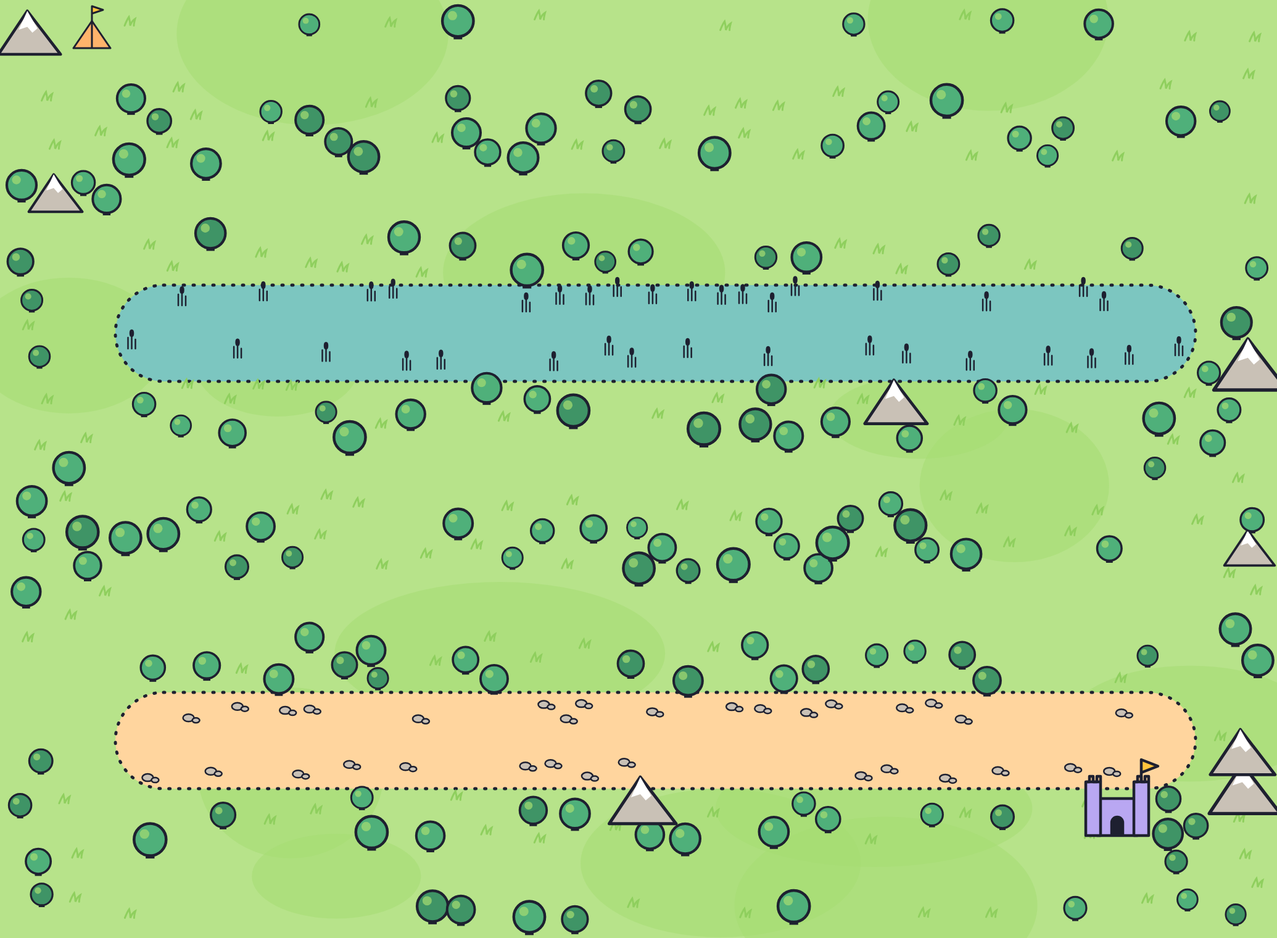
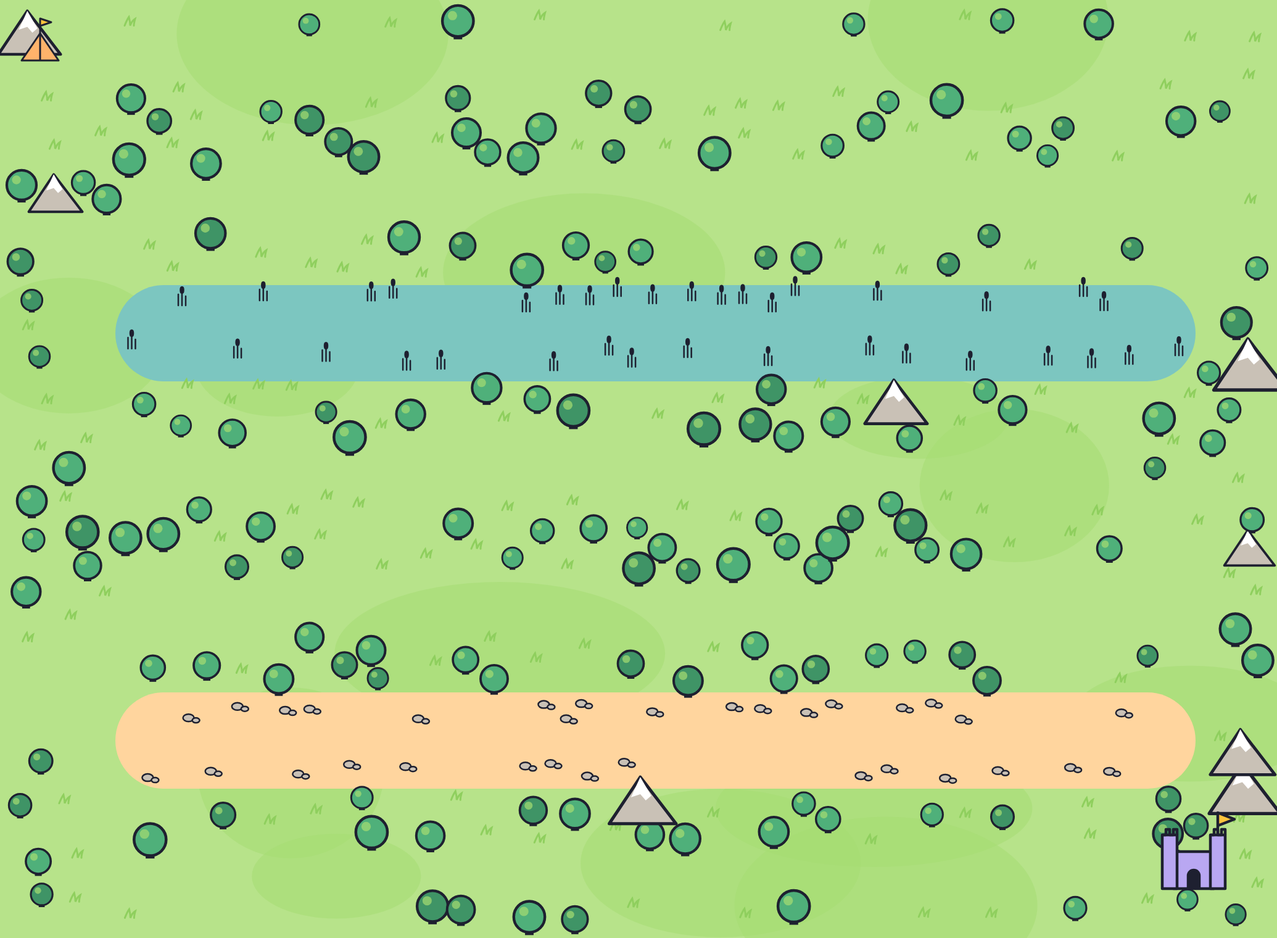
docs: map background decisions, test matrix, runbook and design review
D-276 decided (built before stage 2 closes), D-277..D-279; MP28 done,
MP30 the e2e; the canvas picture moved by half a card, the demo picture
without double outlines.

Changed region(s): [[0.8348, 0.8039, 0.9894, 0.9586], [0.0, 0.0, 0.0928, 0.0618]]

diff --git a/web/src/board/MapView.tsx b/web/src/board/MapView.tsx
@@ -122,7 +122,20 @@ function PropShape({ prop }: { prop: Prop }) {
  * fades in once the browser has it, so a slow phone network never waits for it.
  */
 function BackgroundPicture({ picture }: { picture: BoardBackground }) {
-  const [ready, setReady] = useState(false);
+  // Loaded aside, so a picture already in the cache still says it is there (an SVG image's own load event may come
+  // before the page listens to it)
+  const [ready, setReady] = useState<string | null>(null);
+  useEffect(() => {
+    let active = true;
+    const probe = new Image();
+    probe.onload = () => {
+      if (active) setReady(picture.url);
+    };
+    probe.src = picture.url;
+    return () => {
+      active = false;
+    };
+  }, [picture.url]);
   return (
     <image
       href={picture.url}
@@ -134,14 +147,8 @@ function BackgroundPicture({ picture }: { picture: BoardBackground }) {
       data-map-background=""
       className={cx(
         'transition-opacity duration-(--duration-slow) motion-reduce:transition-none',
-        ready ? 'opacity-100' : 'opacity-0',
+        ready === picture.url ? 'opacity-100' : 'opacity-0',
       )}
-      onLoad={() => {
-        setReady(true);
-      }}
-      onError={() => {
-        setReady(false);
-      }}
     />
   );
 }

diff --git a/web/src/admin/MapCanvas.tsx b/web/src/admin/MapCanvas.tsx
@@ -99,6 +99,9 @@ const nodeTypes = { cell: CellBox };
  */
 const spread = 1.4;
 
+/** About half of a cell's card on the canvas: from its corner (its place) to its number's centre */
+const cardHalf = { x: 26, y: 26 };
+
 /** The zoom buttons of the player's map, on the canvas */
 function CanvasTools() {
   const flow = useReactFlow();
@@ -269,6 +272,9 @@ export function MapCanvas({
               style={{
                 width: draft.background.width * spread,
                 height: draft.background.height * spread,
+                // A card stands with its corner on the place; the picture moves by about half a card so the place it
+                // marks falls under the card's number, as on the players' map
+                transform: `translate(${String(-cardHalf.x)}px, ${String(-cardHalf.y)}px)`,
               }}
             />
           </ViewportPortal>

diff --git a/e2e/visual/map.visual.spec.ts b/e2e/visual/map.visual.spec.ts
@@ -144,10 +144,16 @@ for (const section of [
   'admin',
   'graph',
   'editor',
+  'map-background',
   'whats-new',
 ]) {
   test(`the styleguide section «${section}» looks as approved`, async ({ page }) => {
     await openStyleguide(page, section);
+    // The map's picture fades in once it is loaded (D-277): the screenshot waits for it
+    if (section === 'map-background')
+      await expect(page.locator('#map-background image[data-map-background]')).toHaveClass(
+        /opacity-100/,
+      );
     await expect(page.locator(`#${section}`)).toHaveScreenshot(`${section}.png`);
   });
 }

diff --git a/docs/DECISIONS.md b/docs/DECISIONS.md
@@ -303,7 +303,7 @@
 - **D-311. Карта в представлении сезона.** `SeasonView` отдаёт карту, которая действует сейчас: последнее событие `map-published` из лога (по типу события, без разбора JSON в запросе), иначе карта создания сезона. Клетки (`CellView`) — с типом, параметрами типа, зоной и координатами редактора; добавлены `edges`, `zones` (`ZoneView`: фильтр ролла, модификатор кубов числом, множитель штрафа дропа, колода и цены — как в CONTENT.md) и `mapMode`. Лидерборд считает «клеток до финиша» по той же карте. Проекция БД не менялась, миграций нет: карта по-прежнему живёт в логе (D-300). Расширение только добавляет поля: клиенты этапа 1 их не читают.
 - **D-312. Последний ход — отрезками из лога.** `me.lastMove` — события `player-moved` последней команды, которая двигала мою фишку (среди 64 последних перемещений сезона; только в режиме `graph`), с причиной каждого отрезка и `sequence`. Экран ведёт фишку по настоящей ветке, а телепорт показывает перелётом (`TokenMove.jumps`), а не шагами по цепочке. Выбор ветки отдаёт оставшиеся шаги (`ChoiceView.steps`): кнопка ветки говорит, где фишка встанет («Встанешь на телепорт 6 и перенесёшься на клетку 5»), — это подсказка по той же логике, что `Movement.WalkOwn`, ходит всё равно сервер.
 - **D-313. Редактор карты — только на компьютере.** На телефоне раздел «Карта» админки показывает опубликованную карту с легендой и пометку, что рисовать можно на компьютере: перетаскивание клеток и стрелок требует мыши и места, а правка карты — редкое админское действие. Всё, что делается на холсте, дублируется панелями с клавиатуры (выбор клетки списком, тип, зона, куда ведёт телепорт, очки, выходы с веткой по умолчанию, входы с основным ребром, новая стрелка, удаление).
-- **D-314. Черновик карты — в браузере админа.** Движку черновик не нужен (D-300), а отдельное серверное хранилище черновиков — лишняя таблица без выигрыша для одного админа: черновик лежит в `localStorage` по сезону, пока он отличается от опубликованной карты, и сбрасывается кнопкой «Вернуть опубликованную» и публикацией. Потеря черновика (другой браузер, очистка) не трогает игру. Загрузка фоновой картинки (SPEC «Редактор») отложена: формат карты её не несёт (D-300), фон рисует доска из зон; добавится расширяющим полем карты, когда появится своя картинка сезона.
+- **D-314. Черновик карты — в браузере админа.** Движку черновик не нужен (D-300), а отдельное серверное хранилище черновиков — лишняя таблица без выигрыша для одного админа: черновик лежит в `localStorage` по сезону, пока он отличается от опубликованной карты, и сбрасывается кнопкой «Вернуть опубликованную» и публикацией. Потеря черновика (другой браузер, очистка) не трогает игру. Загрузка фоновой картинки (SPEC «Редактор») была отложена; сделана расширяющим полем карты — D-276…D-279.
 - **D-315. Проверка и публикация карты в API.** `GET /api/admin/seasons/{id}/map` — действующая карта, режим, статус и игроки на клетках (кто финишировал, кто выбирает ветку). `POST …/map/check` — все проблемы сразу: `MapValidator.Validate` плюс новые `MapPublicationChecks.For` (клетки под игроками удалены или стали/перестали быть финишем, кто-то выбирает ветку — то же, что проверяет `PublishMap`; сама команда теперь берёт их оттуда, поведение не менялось), предупреждения о зонах (`ZoneWarnings`) и `canPublish`; проверка читает свёртку лога и ничего не пишет. `POST …/map/publish` — команда `PublishMap` через очередь с комментарием для ленты. Только эти два запроса принимают тело до 1 МиБ (карта на сотни клеток с координатами), остальное API — по-прежнему 64 КиБ. Изменение движка — только добавление публичного помощника.
 - **D-316. Как рисуется граф.** Клетки нумеруются от старта обходом в ширину по стрелкам (сначала ветка по умолчанию, потом телепорты), так номер на карте, в списке для скринридера и в кнопках ветки один и тот же. Координаты берутся из редактора; карта без координат раскладывается столбцами по расстоянию от старта. Зона — выпуклая оболочка вокруг её клеток; вид зоны (лес, горы, болото, город, замок, поляна) — по порядку зоны в карте: в формате карты темы нет, это украшение. Телепорт — пунктирная дуга со стрелкой к клетке назначения.
 - **D-317. Момент выбора ветки.** Пока ждёт выбор ветки, кнопки ролла нет (сервер всё равно отказал бы); выбор показывается и после дедлайна (D-305). На десктопе выбор стоит полосой внизу рамки карты, камера показывает развилку над ней, а в карточке хода — «Ты на развилке: выбери ветку на карте»; на телефоне выбор — в карточке хода, карта ниже с кольцами веток. Ветки пронумерованы так же, как кольца на карте; каждая — кнопка, выбор работает с клавиатуры. Выбор, пришедший при открытой странице, берёт фокус (как результат колеса). После выбора фишка идёт по выбранной ветке (с перелётом телепорта), до конца хода кнопка ролла ждёт.
@@ -319,7 +319,10 @@
 - **D-271. Скорость главной на демо-сезоне с картой-графом.** Карта-граф увеличила ответ сезона и SVG; сценарий 13 на мобильном профиле — 2,2–2,4 с при бюджете 2,5 с (прогоны поодиночке; при запуске вместе с другими сценариями и проектами параллельно — до 2,9 с, это не условия сценария: `late` идут по одному проекту, D-232). Запас маленький: следующая тяжёлая часть главной должна идти отдельным запросом или после показа карты.
 - **D-272. E2E развилки и телепорта двумя браузерами** (`e2e/tests/map-live.spec.ts`). Свой сезон (D-318) на карте, где ветка не по умолчанию начинается тремя телепортами на дальнюю клетку: два кубика по 2 грани всегда проходят развилку и после выбора встают на телепорт, так что результат детерминирован без зерна. Игрок B держит страницу открытой (метка в `window` ловит перезагрузку) и видит фишку A на развилке, потом на клетке телепорта и строки ленты «выбирает ветку на развилке» и «Телепорт». На десктопе админ публикует карту посреди сезона: отказ, пока A выбирает ветку, отказ, когда черновик удаляет клетку A, и принятая публикация (чекпоинт), которую оба видят без перезагрузки и без сдвига фишек. На телефоне — только игроки (редактор только на компьютере, D-313).
 - **D-275. Зум и перетаскивание карты-графа на телефоне в E2E (MP29).** На телефоне граф показывается иначе, чем линейная карта: рамка обрезает его вокруг фишки по высоте (D-320 (9)), поэтому жесты проверяются и на нём, а не только сценарием 9 на линейном сезоне. `map-live.spec.ts` в проекте `phone`: на странице наблюдателя щипок двумя пальцами приближает граф (ширина `viewBox` меньше), перетаскивание одним пальцем по горизонтали и по вертикали сдвигает центр, страница не перезагружается. Касания идут через протокол DevTools (`Input.dispatchTouchEvent`), поэтому только в Chromium; помощники `e2e/support/touch.ts` общие со сценарием 9.
-- **D-276, нужно решение: загрузка фоновой картинки карты.** Вопрос: SPEC («Редактор», этап 2) включает загрузку фона, а карта описана как граф «поверх фоновой картинки»; D-314 отложил загрузку своим решением, без вопроса заказчику, и этап 2 закрывается без неё. Варианты: (а) перенести загрузку фона на более поздний этап через `/spec-update` — фон и дальше рисует доска из зон, формат карты не меняется; (б) сделать до закрытия 2.12: расширяющее поле картинки у карты сезона, загрузка файла админом (те же проверки, что у пруфов), картинка под клетками на карте игрока и в редакторе. Дефолт до ответа — (а) не делается, MP28 в матрице открыт как вопрос заказчику, а не как отложенная задача. Почему спрашиваю: расхождение кода со SPEC решает заказчик.
+- **D-276, решено: сделано до закрытия этапа 2** (2026-11-11, ветка `feat/map-background`). Вопрос был: SPEC («Редактор», этап 2) включает загрузку фона, а карта описана как граф «поверх фоновой картинки»; D-314 отложил загрузку своим решением. Решение (вариант (б), постоянное разрешение заказчика на автономную работу; SPEC — источник истины, под код её не сужаем): расширяющее поле картинки у карты, загрузка файла админом с проверками загрузок, картинка под клетками на карте игрока и в редакторе — D-277…D-279. MP28 закрыт.
+- **D-277. Фон — часть карты.** `MapGraph.Background` — `{fileId, width, height}`: ссылка на сохранённый файл и его натуральный размер в пикселях; места клеток (`x`, `y`) — в пикселях этой картинки. Поле необязательное и пишется только когда есть (как `Zones`, D-300): старые события `map-published` и `season-created` читаются как карта без фона, формат событий не меняется, версия не нужна, лог не переписывается. Фон публикуется вместе с картой той же командой `PublishMap` через ту же очередь; другая картинка или её отсутствие — новая версия карты, та же — `map.unchanged`. Движок файлов не знает: он проверяет только, что у фона есть id файла и размер 1…16 384 px (`map.backgroundInvalid`, потолок безопасности, не баланс); правила его не читают (тест: публикация фона не двигает игроков). Сайт перед проверкой и публикацией сверяет, что файл — загруженный фон карты (вид `MapBackground`, не удалён, один кадр) того размера, что в карте (`map.backgroundUnknown` в проверке, 400 при публикации). Экран сезона и редактор получают фон (`background` с `url`) только пока файл есть на сайте: копия сезона из архива файлов не несёт (D-105) — тогда фон `null` и рисуется доска из зон. На экране: картинка — первым слоем SVG под дорогой и клетками, без сдвига и полей (доска растёт, только если клетка вышла за картинку); зоны поверх неё — пунктирным контуром без заливки, без нарисованных деревьев и замка; без картинки — доска из зон, как была. Картинка проявляется, когда загрузилась (загрузка отдельно через `Image`, чтобы картинка из кэша тоже проявилась), главная её не ждёт. В редакторе — панель «Фон карты» (нет, загрузка, ошибка, есть; заменить, убрать), фон в черновике, на холсте React Flow — под карточками (`ViewportPortal`, со сдвигом на полкарточки). Почему так: одно поле карты — одна правда для движка, экрана, редактора, лога и публикации посреди сезона; без серверного черновика (D-314).
+- **D-278. Загрузка фона.** `POST /api/admin/seasons/{id}/map/background` — только админ (403 игроку и зрителю, 401 анониму, 404 чужому сезону), CSRF-заголовок, лимит частоты загрузок, multipart как `POST /api/files` (400 без команды или файла, 415 не форма). Путь тот же, что у пруфов и аватарок (`FileEndpoints.UploadPictureAsync`): тип по содержимому, лимиты пикселей, перекодирование NetVips в WebP без метаданных, миниатюра, файл на диск — потом команда `RecordFile` через очередь, повтор по `commandId`, суточный лимит своего вида. Новый вид файла `FileKind.MapBackground` (значение в конце перечисления; колонка `Kind` — число, миграция не нужна): фон не годится в аватарку, обложку и пруф (они требуют `Upload`), неподвижная картинка (анимация — `file.notStill`, 422). Свои лимиты в конфиге приложения, как у прочих загрузок: `Files:MapBackgroundMaxBytes` (10 МБ, 413 `file.tooLarge`) и `Files:MapBackgroundMaxLongSide` (3200 px — карту приближают, поэтому больше 2560 у скриншотов; в памяти одна картинка за раз ≈ 30 МБ). Отдаётся сохранённая уменьшенная версия `GET /api/files/{id}` с `immutable`-кэшем: полноразмерный исходник не хранится и не декодируется на запрос. Мягкое удаление не понадобилось: «Убрать фон» убирает ссылку из карты, файл остаётся (на него ссылаются прежние версии карты в логе).
+- **D-279. Фон демо-сезона — наша картинка.** `scripts/map-background.mjs` рисует картинку по самой карте `content/map.demo.json`: луг, мягкие области под клетками зон (болото, песчаная тропа), деревья, горы, лагерь у старта и замок у финиша — в стороне от клеток и стрелок; SVG — исходник, PNG (2070×1520) для сида рендерит браузер Playwright из `e2e/`; там же — картинка карты стайлгайда (`web/src/styleguide/mapBackground.svg`). Чужих картинок нет. Места клеток демо-карты сдвинуты на 100 px вправо и вниз, чтобы все клетки легли на картинку (правила мест не читают, D-274). Сид загружает PNG как админ — тем же путём (`StoreFileAsync`, вид `MapBackground`, вне суточного лимита) — и ставит фон обеим версиям карты (до и после публикации посреди сезона). Скорость главной (сценарий 13): картинка в WebP ~100–200 КБ грузится после показа карты и её не задерживает.
 
 ## Решения этапа 3
 

diff --git a/docs/PROGRESS.md b/docs/PROGRESS.md
@@ -2,7 +2,8 @@
 
 ## Сейчас
 
-- **2.12 «Закрытие этапа 2» — поток graph готов** (ветка `feat/stage2-close-graph`, D-270…D-274): демо-сезон играется на карте-графе (публикация карты посреди сезона, игроки ждут на развилке), E2E развилки и телепорта двумя браузерами с публикацией посреди сезона, RUNBOOK «Как опубликовать карту посреди сезона» проверен руками, матрица MP23…MP29 (зум графа на телефоне — D-275); найден и исправлен MP-1 (лента и снятый выбор ветки), MP-2 открыт. Скорость главной демо-сезона на графе 2,2–2,4 с при бюджете 2,5 (D-271, запас мал). **Вопрос заказчику D-276** (фон карты, MP28). **Следующий шаг:** охота на баги и Stryker этапа 2 (другие потоки), слияние.
+- **2.12 «Закрытие этапа 2» — поток mapbg готов** (ветка `feat/map-background` поверх `feat/stage2-close-graph`, D-276…D-279; MP28 ✅, MP30): фон карты по SPEC «Редактор» — карта несёт необязательную ссылку на картинку с её размером (клетки в её пикселях, старые карты без поля читаются как прежде, событие не менялось), админ загружает картинку в редакторе (`POST …/map/background`: только админ, проверки загрузок, свой вид файла, неподвижная, 10 МБ, WebP до 3200 px), она публикуется вместе с картой через `PublishMap`; у игрока картинка под клетками (зоны — контуром), без неё — доска из зон; панель «Фон карты» (нет, загрузка, ошибка, есть; заменить, убрать), холст с картинкой, раздел стайлгайда `map-background`; демо-сезон лежит на нашей картинке (`scripts/map-background.mjs`). Миграций нет. **Следующий шаг:** слияние после #93 (ветка включает его).
+- **2.12 «Закрытие этапа 2» — поток graph готов** (ветка `feat/stage2-close-graph`, D-270…D-274): демо-сезон играется на карте-графе (публикация карты посреди сезона, игроки ждут на развилке), E2E развилки и телепорта двумя браузерами с публикацией посреди сезона, RUNBOOK «Как опубликовать карту посреди сезона» проверен руками, матрица MP23…MP29 (зум графа на телефоне — D-275); найден и исправлен MP-1 (лента и снятый выбор ветки), MP-2 открыт. Скорость главной демо-сезона на графе 2,2–2,4 с при бюджете 2,5 (D-271, запас мал). Фон карты (D-276, MP28) — решён, поток mapbg. **Следующий шаг:** охота на баги и Stryker этапа 2 (другие потоки), слияние.
 - **Пакет зависимостей 2026-11** (ветка `chore/deps-2026-11`, D-250…D-253, вместо PR Dependabot #77–#81): NuGet, образы Docker (ASP.NET Core 10.0.14 — серверная сторона GHSA-334f-vvp4-7g6p), Actions, npm с Playwright 1.64.1 и motion 14. Эталон `webkit-desktop/map.png` обновлён из-за нового WebKit (D-253). Отложены TypeScript 7 (typescript-eslint его не поддерживает, мажоры игнорируются Dependabot) и SDK 10.0.403 в `global.json` (локально 10.0.401, `rollForward` назад не идёт). Обрезанный GIF узнаётся обходом блоков (DP-1). Следующий шаг: слияние после ревью и зелёного CI, PR #77–#81 закрыть.
 - **Симулятор на новых правилах** (ветка `chore/simulation-new-rules`, D-362…D-366): боты учитывают серию дропов (`behaviour.dropStreakLimit`), реролл по желанию (`behaviour.wishRerollChance`), админ-бот отклоняет по D-321/D-327, иногда со штрафом дропа (`admin.penalizedRejectShare`); отчёт — дропы по серии, реролл по желанию, реджекты. Перепрогон 27 + 7 вариантов в `docs/SIMULATION.md` («Что изменилось с прошлого прогона»). Движок и `docs/ruleset.default.json` не менялись. **Ждёт решения заказчика** D-366 (карта 70 и медленная проверка или реджекты: 77% сезонов с первым при проверке раз в день и 5% реджектов, у карты 65 — 88%); D-360 и D-361 новые числа не меняют.
 - **RGG 14 и 15 готовы** (ветка `feat/rgg-rules-pool`, D-207, D-208, D-240, D-241): раздел «Что считается прохождением» на странице правил (текст заказчика дословно, якорь `#rules-completion`) и ссылка на него у пруфов в очереди, в отметке прохождения и в форме пруфа (в новой вкладке); удаление игры из пула требует причину (колонка `Game.DeletionReason`, миграция `GameDeletionReason`, событие `game-deleted` v2), причина видна в админке, повторное добавление удалённой игры отказывает с причиной (`pool.removed`), похожая на удалённую — предупреждение. Матрица — строки RG1–RG9. После ревью кода: название держит только удаление с причиной, зритель удалённых не видит (D-241); после дизайн-ревью: `Notice` переносит длинные слова, фокус и сброс ошибки причины, подсказка «вернуть может только админ». Проверки: `check:stop`, `npm test` (движок 2121, Web 1298, фронтенд 613), `test:migrations` (откат — `DROP COLUMN` на месте, схема как прежде), `has-pending-model-changes` чисто, `test:visual` (обновлены снимки `complete`, `proof`, `rules`, `admin`), `test:e2e` 44 зелёных (первый прогон поймал гонку ожидания в сценарии 1 — RG-1 в BUGS.md, исправлено; ещё один прогон под нагрузкой машины — разовый «Сайт не загрузился» на первой странице `admin.spec.ts`, следующий прогон зелёный). **Следующий шаг:** I2 и K, как прежде.
@@ -155,8 +156,8 @@
   Готово, когда: Vitest, скриншоты 390×844 и 1440×900, `design-reviewer`.
 - ✅ **2.11 🎨 Редактор карты** (`@xyflow/react`). Загрузка фона, клетки кликом, стрелки, телепорты, зоны, черновик и публикация, ошибки проверки у клеток.
   Готово, когда: Vitest, E2E «нарисовал → опубликовал → игрок видит», `design-reviewer`.
-  Сделано (ветка `feat/map-screens`, D-311…D-319): 2.9 — карта в `SeasonView` (клетки с параметрами, зоной и координатами, стрелки, зоны, режим), `ChoiceView.steps`, `me.lastMove`, админские `GET/POST …/map`, `…/map/check`, `…/map/publish` с проблемами словами; 2.10 — доска из графа (`graphBoard`), телепорты дугой, легенда зон и клеток, выбор ветки (десктоп — на карте, телефон — в карточке хода), ход по выбранной ветке с перелётом телепорта, строки ленты; 2.11 — редактор на React Flow с панелями для клавиатуры, живая проверка, черновик в браузере, публикация с подтверждением, телефон — просмотр. Отложено: загрузка фона (D-314), E2E «нарисовал → опубликовал» через холст — публикация карты в E2E идёт через API (сценарий развилки), холст покрыт Vitest.
-- 🟨 **2.12 Закрытие этапа.** E2E развилки и телепорта двумя браузерами, исследовательское тестирование, Stryker ≥ 80%, RUNBOOK (как опубликовать карту посреди сезона), демо-сезон на графе.
+  Сделано (ветка `feat/map-screens`, D-311…D-319): 2.9 — карта в `SeasonView` (клетки с параметрами, зоной и координатами, стрелки, зоны, режим), `ChoiceView.steps`, `me.lastMove`, админские `GET/POST …/map`, `…/map/check`, `…/map/publish` с проблемами словами; 2.10 — доска из графа (`graphBoard`), телепорты дугой, легенда зон и клеток, выбор ветки (десктоп — на карте, телефон — в карточке хода), ход по выбранной ветке с перелётом телепорта, строки ленты; 2.11 — редактор на React Flow с панелями для клавиатуры, живая проверка, черновик в браузере, публикация с подтверждением, телефон — просмотр. Загрузка фона, отложенная D-314, сделана в 2.12 (D-276…D-279). Отложено: E2E «нарисовал → опубликовал» через холст — публикация карты в E2E идёт через API (сценарий развилки), холст покрыт Vitest.
+- 🟨 **2.12 Закрытие этапа.** E2E развилки и телепорта двумя браузерами, исследовательское тестирование, Stryker ≥ 80%, RUNBOOK (как опубликовать карту посреди сезона), демо-сезон на графе, загрузка фона карты (D-276…D-279, ✅ поток mapbg).
   - ✅ Демо-сезон на графе (D-270, D-274): `content/map.demo.json` с местами клеток, публикация полной карты на 13-й день, игроки ждут выбора ветки в конце; `DemoSeedTests`. Критерий: `npm run dev:demo` показывает граф — проверено.
   - ✅ E2E развилки и телепорта двумя браузерами и публикации посреди сезона (отказы и принятая) — `e2e/tests/map-live.spec.ts` (D-272).
   - ✅ RUNBOOK «Как опубликовать карту посреди сезона» — проверено руками на `dev:demo`; найдено MP-1 (исправлено), MP-2 (открыт, до дизайн-ревью редактора).

diff --git a/docs/RUNBOOK.md b/docs/RUNBOOK.md
@@ -119,6 +119,18 @@
 
 Через API (без экрана): `GET /api/admin/seasons/{id}/map` — карта и кто где стоит; `POST …/map/check` с `{map}` — все проблемы и `canPublish`; `POST …/map/publish` с `{commandId, map, comment}`.
 
+## Как загрузить или заменить фон карты
+
+Проверено 2026-11-11: E2E `map-background.spec.ts` (админ загружает картинку в редакторе и публикует, у игрока с открытой страницей фон появляется без перезагрузки), просмотр демо-сезона на локальной копии (`seed-demo`, фон из `content/map.demo.background.png`) на 390 и 1440 px. Фон — часть карты (D-277): меняется только публикацией, как клетки.
+
+1. **Картинка.** Неподвижная JPEG, PNG или WebP (анимация не принимается), до `Files:MapBackgroundMaxBytes` (10 МБ). Сайт перекодирует её в WebP не длиннее `Files:MapBackgroundMaxLongSide` (3200 px по длинной стороне) и отдаёт эту версию с долгим кэшем (D-278). Места клеток — в пикселях **сохранённой** картинки: если исходник больше 3200 px, расставляй клетки по уменьшенной (её размер панель пишет под превью).
+2. **Загрузка.** «Админка» → «Карта» (на компьютере) → панель «Фон карты» → «Загрузить картинку». Под превью — размер; на холсте картинка ляжет под клетки. Ошибка («Файл слишком большой», «Нужна неподвижная картинка…») — словами в панели; прежний фон черновика остаётся.
+3. **Клетки.** Перетащи клетки на нужные места картинки (или поправь `x`, `y` в черновике). Игроки увидят фон только после публикации; до неё панель пишет «Фон попадёт к игрокам вместе с картой…».
+4. **Публикация** — как в разделе выше (бэкап, комментарий, подтверждение). Проверка карты отказывает «Фона нет на сайте или его размер не совпадает», если картинка не загружена через эту панель (например, черновик из другой копии сайта).
+5. **Заменить** — «Заменить картинку» в той же панели и публикация; **убрать** — «Убрать фон» и публикация: игроки снова видят доску из зон. Прежние картинки остаются файлами (в старых версиях карты в логе), место на диске — сотни килобайт.
+
+Через API: `POST /api/admin/seasons/{id}/map/background` (multipart: `commandId`, `file`; только админ) → `{id, width, height, url}`; затем в карте `{"background": {"fileId": id, "width": width, "height": height}}` для `…/map/check` и `…/map/publish`. Выгрузка сезона (`season:export`) файлов не несёт: в копии сезона карта без картинки рисуется доской из зон, пока фон не загрузят заново.
+
 ## Закрыть сезон
 
 Не проверено руками (появится в админке, H8; пока — через API, как «Начать сезон»).
@@ -207,7 +219,7 @@
 
 Не проверено руками (проверки — `FileUploadTests`, `SafeDownloaderTests`, `AvatarApiTests`).
 
-- Файлы — `var/files` (`Files:Path`), лимиты — раздел `Files` (`MaxUploadBytes`, `MaxGifBytes`, `MaxPixels`, `MaxInterlacedPixels`, `MaxFrames`, `UploadsPerDay`, `UploadsPerMinute`, `DownloadsPerHour`), D-108, D-117.
+- Файлы — `var/files` (`Files:Path`), лимиты — раздел `Files` (`MaxUploadBytes`, `MaxGifBytes`, `MaxPixels`, `MaxInterlacedPixels`, `MaxFrames`, `UploadsPerDay`, `UploadsPerMinute`, `DownloadsPerHour`, фон карты — `MapBackgroundMaxBytes`, `MapBackgroundMaxLongSide`), D-108, D-117, D-278.
 - Скачивание аватарок по ссылке — раздел `Files:Download`: `AllowedHosts` (список заменяет стандартный: `media.tenor.com`, `i.giphy.com`, `*.klipy.com`…), `TimeoutSeconds`, `MaxRedirects`, `MaxConcurrent`. Через переменные окружения: `Files__Download__AllowedHosts__0=media.tenor.com`, `Files__Download__AllowedHosts__1=…`.
 - Хост из списка перестал отдавать картинки или взломан — убрать его из `AllowedHosts` и перезапустить сайт.
 
@@ -239,7 +251,7 @@
 ## Демо-сезон и локальные сиды
 
 - `npm run dev` — маленький сид в `var/dev.db` (admin, vasya, petya, masha, kolya, dasha, zritel; пароль — `DevSeed:Password` в `appsettings.Development.json`).
-- `npm run seed:demo` — демо-сезон заново в `var/demo.db` (admin, zritel, player01…player16), `npm run dev:demo` — сайт на нём. Сезон играется на карте-графе `content/map.demo.json` (D-270): развилки в две зоны, шорткат и змея, чекпоинты, бонусы; на 13-й день админ публикует полную карту (зона «Тропа коротких игр»), в конце сезона трое ждут выбора ветки на развилке, в очереди есть пруфы. Проверка: `npm run season:check -- de300000-0000-0000-0000-000000000001 --db var/demo.db`.
+- `npm run seed:demo` — демо-сезон заново в `var/demo.db` (admin, zritel, player01…player16), `npm run dev:demo` — сайт на нём. Сезон играется на карте-графе `content/map.demo.json` (D-270): развилки в две зоны, шорткат и змея, чекпоинты, бонусы; карта лежит на нашей картинке `content/map.demo.background.png` (D-279, перерисовать — `node scripts/map-background.mjs`); на 13-й день админ публикует полную карту (зона «Тропа коротких игр»), в конце сезона трое ждут выбора ветки на развилке, в очереди есть пруфы. Проверка: `npm run season:check -- de300000-0000-0000-0000-000000000001 --db var/demo.db`.
 - Демо-пул из таблицы (после её обновления): `dotnet run --project src/GameEvent.Tools.Import -- pool-demo data/import/games.xlsx content/pool.demo.json`; затем `npm run format:file -- content/pool.demo.json` (Prettier); перед коммитом убедиться, что в файле нет ников.
 
 ## Импорт пула из таблицы

diff --git a/docs/DESIGN_REVIEW.md b/docs/DESIGN_REVIEW.md
@@ -325,6 +325,28 @@
 - [x] Анимация — только ход фишки (перелёт телепорта), пропускается и уважает reduced motion.
 - [ ] Лишнее и мелкое: таблички зон на клетках, нумерация по маршруту, «финишное» состояние карточки хода (отложено, D-320).
 
+## Фон карты (2026-11-11, ветка `feat/map-background`)
+
+Экран демо-сезона на карте поверх нашей картинки (игрок `player03`, развилка), раздел админки «Карта» (десктоп — холст с картинкой и панель «Фон карты», телефон — просмотр), раздел стайлгайда `#map-background` (карта на картинке и панель в четырёх состояниях). Локальная копия с `seed-demo`; снимки — `test-artifacts/design/map-background/` (не в git): `season-390`, `season-1440`, `admin-map-390`, `admin-map-1440`, `admin-map-panel-1440`, `styleguide-390`, `styleguide-1440`. Проход по чек-листу — свой (субагента дизайн-ревью в этом запуске нет). Решения — D-277…D-279.
+
+| Важность | Находка | Скриншоты | Решение |
+| --- | --- | --- | --- |
+| P1 | Картинка карты стайлгайда не проявлялась: событие загрузки SVG-картинки из кэша приходило раньше, чем страница его слушала | `styleguide-1440` (первый проход) | Картинка грузится отдельно через `Image`, проявление — по её загрузке |
+| P2 | Своя пунктирная рамка областей на картинке и пунктирный контур зон доски шли двумя линиями | `season-1440` (первый проход) | Области на картинке — только заливкой; контур зоны — один, от доски |
+| P2 | Замок на картинке стоял между рядами клеток и спорил с клетками «Тропы» | `season-1440` (первый проход) | Замок — справа от финиша, лагерь — слева от старта |
+| P3 | На холсте редактора карточка клетки стоит углом на своём месте, а не центром: картинка без поправки съезжала на полкарточки | `admin-map-1440` | Картинка на холсте сдвинута на полкарточки (`cardHalf`); точная подгонка не нужна — места проверяются на карте игрока |
+| P3 | На десктопе вид вокруг фишки у края картинки показывает стол за её краем | `season-1440` | Оставлено: так же у доски без картинки (камера не ограничена миром) |
+
+## Чек-лист «Фон карты»
+
+- [x] Одно главное действие: «Загрузить картинку» / «Заменить картинку»; публикация — прежней кнопкой карты.
+- [x] Все состояния: нет фона (с объяснением, что видят игроки), загрузка (кнопка крутится, строка статуса), ошибка словами (`role=alert`), фон есть (превью, размер, «фон попадёт к игрокам после публикации»).
+- [x] 390 px без горизонтального скролла: панель в одну колонку, карта игрока на телефоне — с картинкой.
+- [x] Клавиатура: поле файла под русской кнопкой с видимым фокусом, «Убрать фон» — кнопка.
+- [x] Только токены: цвета интерфейса из токенов; цвета внутри картинки — сама картинка (`scripts/map-background.mjs`).
+- [x] Зрелищность не добавлена: картинка проявляется за `--duration-slow`, при reduced motion — сразу.
+- [x] Скорость главной: картинка грузится после показа карты, сценарий 13 — в прогоне `test:e2e`.
+
 ## RGG 14 и 15: «Что считается прохождением» и причина удаления игры (2026-09-29)
 
 Раздел правил `#rules-completion`, ссылка на него в карточке пруфа, отметке прохождения и форме пруфа; окно удаления игры с причиной, строка причины в пуле админки, форма игры с удалённой игрой. Сайт E2E (демо и сид разработки), состояния через API; снимки ревьюера — `test-artifacts/design-review/rgg-rules-pool/` (390×844 и 1440×900).
